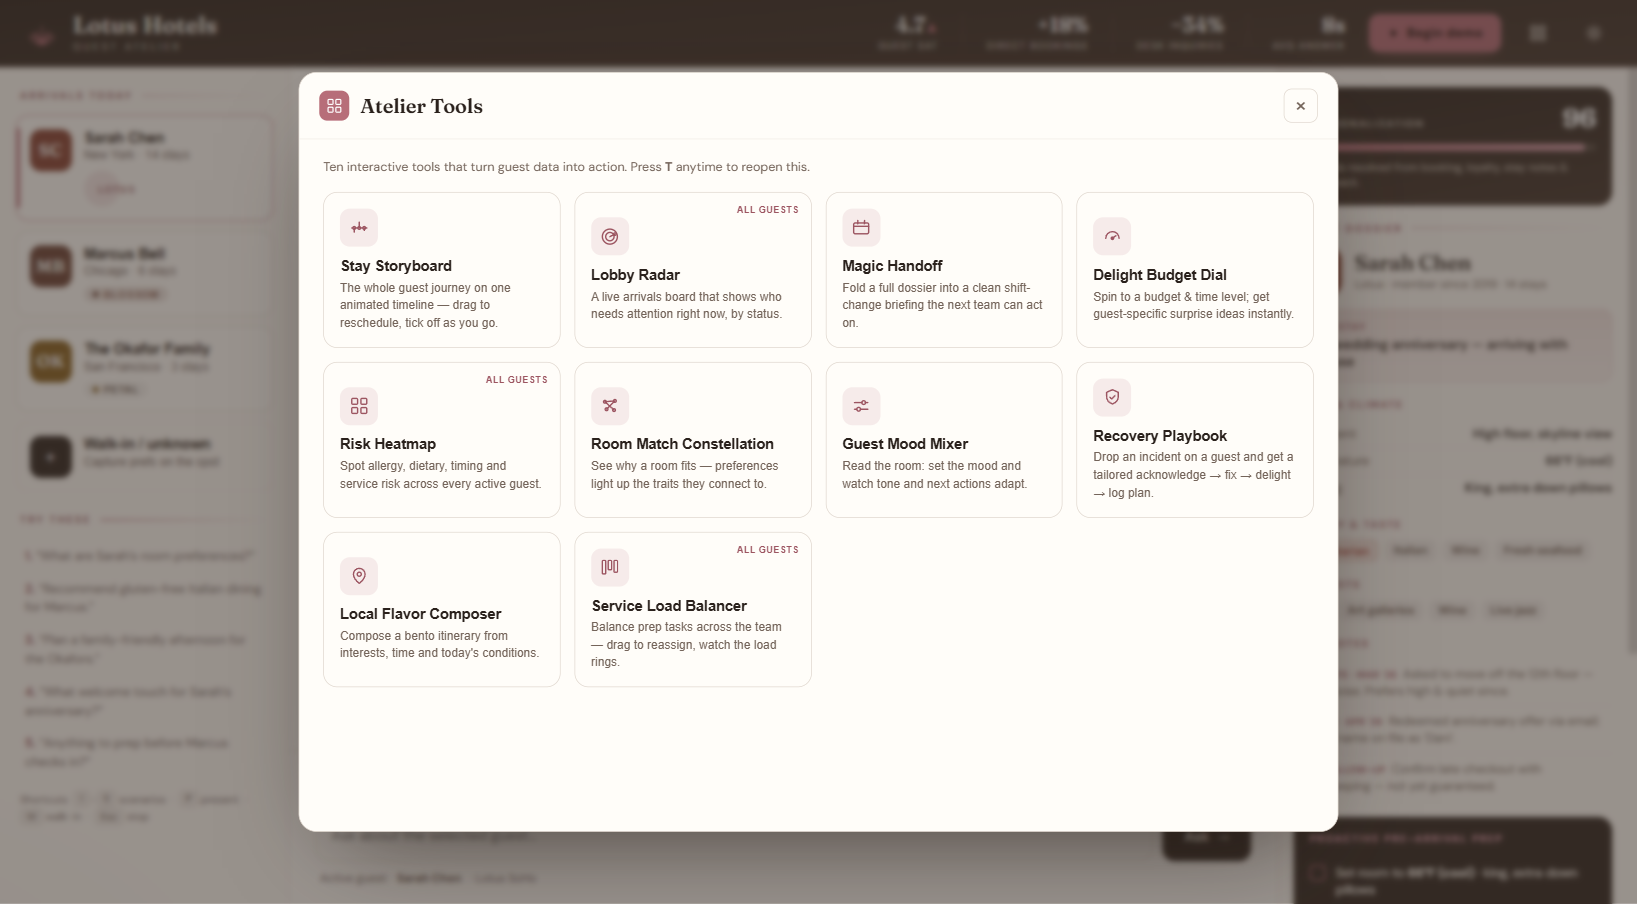
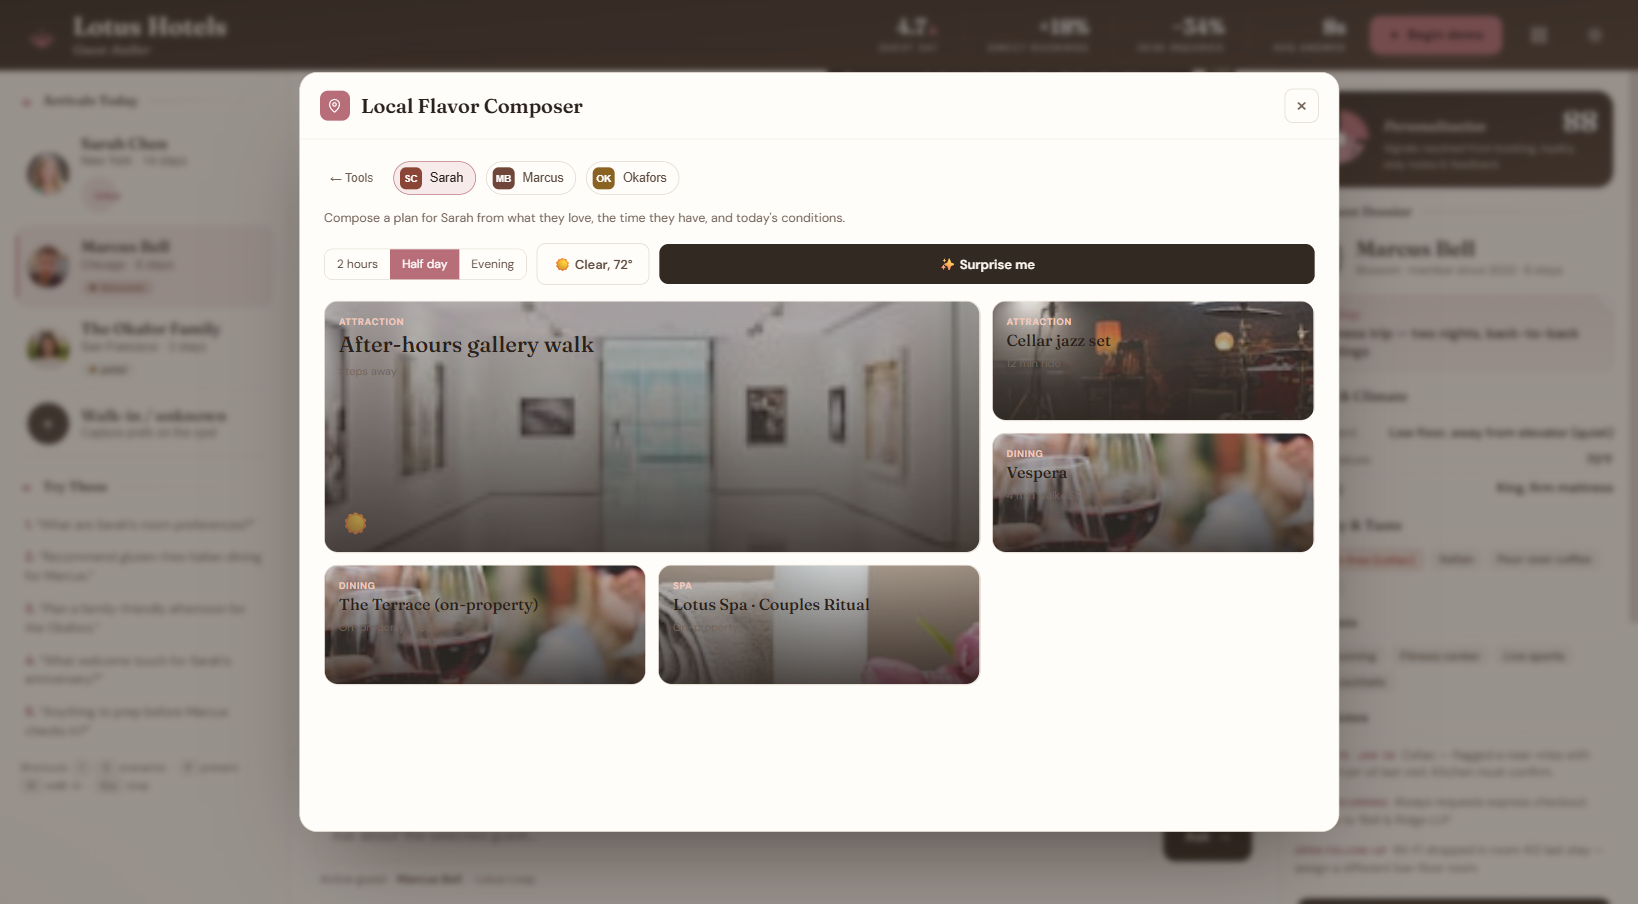
Add real photography: guest portraits + food/venue thumbnails
- Guest portraits (roster + dossier) from randomuser.me
- Real Unsplash photo thumbnails on every dining/activity recommendation
- Photo-backed cards in the Local Flavor Composer bento
- Graceful onerror fallback to inline SVG illustrations (stays reliable offline)
- Verified: 5 scenarios, dietary guardrails, all 10 tools, 0 broken images, 0 console errors

diff --git a/index.html b/index.html
@@ -106,8 +106,10 @@
   .gcard:hover{background:var(--brass-soft)}
   .gcard.active{background:var(--brass-soft)}
   .gcard.active::before{content:"";position:absolute;left:0;top:10px;bottom:10px;width:2px;background:var(--brass)}
-  .avatar{width:42px;height:42px;border-radius:50%;flex:0 0 auto;display:flex;align-items:center;justify-content:center;
+  .avatar{width:42px;height:42px;border-radius:50%;flex:0 0 auto;display:flex;align-items:center;justify-content:center;overflow:hidden;
     font-family:var(--serif);font-size:16px;font-weight:600;color:#fff;letter-spacing:.3px;box-shadow:inset 0 0 0 1px rgba(255,255,255,.18)}
+  .avatar.portrait svg{width:100%;height:100%;display:block}
+  .avatar.portrait img{width:100%;height:100%;object-fit:cover;display:block}
   .gcard .nm{font-family:var(--serif);font-weight:600;font-size:15.5px;line-height:1.1;color:var(--heading)}
   .gcard .meta{font-size:12px;color:var(--muted);margin-top:3px}
   .tier{display:inline-flex;align-items:center;gap:5px;font-size:10px;letter-spacing:.4px;
@@ -164,6 +166,12 @@
 
   .recs{display:grid;gap:9px;margin-top:12px}
   .rec{border:1px solid var(--line-2);border-left:2px solid var(--brass);border-radius:9px;padding:11px 13px;background:var(--paper)}
+  .rec.hasthumb{display:flex;gap:12px;align-items:center}
+  .rcol{flex:1;min-width:0}
+  .rthumb{width:48px;height:48px;flex:0 0 auto;border-radius:10px;overflow:hidden;background:radial-gradient(circle at 50% 38%,var(--card),var(--brass-soft));
+    display:flex;align-items:center;justify-content:center;color:var(--brass-2);box-shadow:inset 0 0 0 1px var(--line-2)}
+  .rthumb svg{width:26px;height:26px;fill:none;stroke:currentColor;stroke-width:1.5;stroke-linecap:round;stroke-linejoin:round}
+  .rthumb img{width:100%;height:100%;object-fit:cover;display:block}
   .rec .rt{font-weight:650;font-size:13.5px;color:var(--heading);display:flex;justify-content:space-between;gap:10px;align-items:baseline}
   .rec .rt .pill{font-size:10px;letter-spacing:.3px;color:var(--muted);font-weight:600;white-space:nowrap}
   .rec .rt .val{color:var(--brass-2);font-weight:700}
@@ -464,7 +472,13 @@
   .bento{display:grid;grid-template-columns:repeat(3,1fr);grid-auto-rows:120px;gap:12px}
   .bento .bt{border:1px solid var(--line);border-radius:14px;padding:14px;background:var(--card);overflow:hidden;position:relative;animation:rise .4s both}
   .bento .bt.big{grid-column:span 2;grid-row:span 2}
-  .bento .bt .cat{font-size:9.5px;letter-spacing:.6px;text-transform:uppercase;color:var(--brass-2);font-weight:700}
+  .bento .bt-photo{position:absolute;inset:0;background-size:cover;background-position:center;opacity:.9}
+  .bento .bt-photo::after{content:"";position:absolute;inset:0;background:linear-gradient(180deg,rgba(20,12,8,.15),rgba(20,12,8,.82))}
+  .bento .bt .cat,.bento .bt .nm,.bento .bt .mt,.bento .bt .wx{position:relative;z-index:1}
+  .bento .bt .cat{font-size:9.5px;letter-spacing:.6px;text-transform:uppercase;color:#f0c9be;font-weight:700}
+  .bento .bt .nm{color:#fff}
+  .bento .bt .mt{color:rgba(255,255,255,.82)}
+  .bento .bt.big .wx{bottom:14px;right:auto;left:16px}
   .bento .bt .nm{font-family:var(--serif);font-size:16px;color:var(--heading);margin-top:4px;line-height:1.2}
   .bento .bt.big .nm{font-size:22px}
   .bento .bt .mt{font-size:11px;color:var(--muted);margin-top:6px}
@@ -560,6 +574,7 @@
 const GUESTS = [
   {
     id:"sarah", name:"Sarah Chen", initials:"SC", tier:"lotus", color:"#8a4536", score:96,
+    photo:"https://randomuser.me/api/portraits/women/65.jpg",
     matchKeys:["sarah","chen"],
     property:{name:"Lotus SoHo", city:"New York"}, memberSince:2019, visits:14,
     occasion:"5th wedding anniversary &mdash; arriving with spouse", occasionKey:"anniversary",
@@ -576,6 +591,7 @@ const GUESTS = [
   },
   {
     id:"marcus", name:"Marcus Bell", initials:"MB", tier:"blossom", color:"#6f4639", score:88,
+    photo:"https://randomuser.me/api/portraits/men/32.jpg",
     matchKeys:["marcus","bell"],
     property:{name:"Lotus Loop", city:"Chicago"}, memberSince:2022, visits:6,
     occasion:"Business trip &mdash; two nights, back-to-back meetings", occasionKey:"business",
@@ -592,6 +608,7 @@ const GUESTS = [
   },
   {
     id:"okafor", name:"The Okafor Family", initials:"OK", tier:"petal", color:"#8a6323", score:84,
+    photo:"https://randomuser.me/api/portraits/women/90.jpg",
     matchKeys:["okafor","okafors","amara","david"],
     property:{name:"Lotus Embarcadero", city:"San Francisco"}, memberSince:2023, visits:3,
     occasion:"Summer family vacation &mdash; Amara &amp; David + kids (4 &amp; 7)", occasionKey:"family",
@@ -674,10 +691,68 @@ function pick(g,cats,intentTags,n){
   return CATALOG.filter(i=>i.city===g.property.city && cats.includes(i.cat) && dietaryOk(i,g))
     .map(i=>({i,s:scoreItem(i,g,intentTags)})).sort((a,b)=>b.s-a.s).slice(0,n).map(x=>x.i);
 }
+/* ---- inline SVG imagery (offline, theme-aware) ---- */
+const PARTY={
+  solo:'<path d="M7 37c0-8 5.5-12 13-12s13 4 13 12z"/><circle cx="20" cy="15" r="6.8"/>',
+  couple:'<path d="M3 37c0-7 5-11 16.5-11S36 30 36 37z"/><circle cx="14" cy="15" r="6"/><circle cx="26" cy="15" r="6"/>',
+  family:'<path d="M2 37c0-8 6-12 18-12s18 4 18 12z"/><circle cx="13" cy="13" r="5"/><circle cx="27" cy="13" r="5"/><circle cx="15" cy="31" r="3.6"/><circle cx="25" cy="31" r="3.6"/>'
+};
+function partyKey(g){ if(g.id==="walkin") return "solo"; return {anniversary:"couple",family:"family",business:"solo",leisure:"solo"}[g.occasionKey]||"solo"; }
+function portraitSVG(g){ return `<svg viewBox="0 0 40 40" fill="#fff" aria-hidden="true">${PARTY[partyKey(g)]}</svg>`; }
+function avatar(g){
+  if(g.id==="walkin" && !g.built) return `<div class="avatar" style="background:${g.color}">+</div>`;
+  const fb=portraitSVG(g).replace(/"/g,"&quot;");
+  if(g.photo) return `<div class="avatar portrait" style="background:${g.color}"><img src="${g.photo}" alt="${stripTags(g.name)}" loading="lazy" onerror="this.parentNode.innerHTML='${fb}'"></div>`;
+  return `<div class="avatar portrait" style="background:${g.color}">${portraitSVG(g)}</div>`;
+}
+
+const DISH={
+  dine:'<path d="M7 3v6a2.4 2.4 0 002.4 2.4M9.4 3v5.4M7 3v5.4"/><path d="M9.4 11.4V21"/><path d="M16.5 3c-1.4 1.1-2 3-2 5.2 0 1.9.7 3 2 3.6V21"/>',
+  cup:'<path d="M5 9h11v3.5A5.5 5.5 0 0110.5 18H10A5 5 0 015 13z"/><path d="M16 10h1.8a2.2 2.2 0 010 4.4H16"/><path d="M8 3.5v2M11.2 3.5v2"/>',
+  wine:'<path d="M8.5 3.5h7l-.9 5.6a2.6 2.6 0 01-5.2 0z"/><path d="M12 13v5.5M9 20.5h6"/>',
+  fish:'<path d="M3.5 12c3.2-4.4 8.6-4.4 11.8 0-3.2 4.4-8.6 4.4-11.8 0z"/><path d="M15.3 12l4.7-3.2v6.4z"/><circle cx="7.6" cy="10.9" r=".9" fill="currentColor" stroke="none"/>',
+  spa:'<path d="M12 20V9"/><path d="M12 20c-3-1.6-4.6-4.4-5.2-8.2 2.5 1 4.2 3.6 5.2 8.2z"/><path d="M12 20c3-1.6 4.6-4.4 5.2-8.2-2.5 1-4.2 3.6-5.2 8.2z"/><path d="M12 20c-4-.8-6.7-2.7-8.3-5.8 3.1-.3 6.2 1.4 8.3 5.8z"/><path d="M12 20c4-.8 6.7-2.7 8.3-5.8-3.1-.3-6.2 1.4-8.3 5.8z"/>',
+  pulse:'<path d="M3 12h4l2.2-5.5 3.4 11 2.2-5.5H21"/>',
+  waves:'<path d="M3 9c2-2 4-2 6 0s4 2 6 0 4-2 6 0M3 15c2-2 4-2 6 0s4 2 6 0 4-2 6 0"/>',
+  frame:'<rect x="4" y="4.5" width="16" height="15" rx="1.2"/><path d="M7 15.5l3.2-3.4 2.2 2.2 3-3.8 2.6 5"/><circle cx="9" cy="9" r="1.2"/>',
+  note:'<path d="M9 18.5V6l9-2v10.5"/><circle cx="6.8" cy="18.5" r="2.2"/><circle cx="15.8" cy="16.5" r="2.2"/>',
+  pin:'<path d="M12 21s7-6 7-11a7 7 0 00-14 0c0 5 7 11 7 11z"/><circle cx="12" cy="10" r="2.6"/>'
+};
+function dishKey(i){ const t=(i.tags||[]).join(" ");
+  if(i.cat==="dining"){ if(/coffee/.test(t))return "cup"; if(/wine|romantic/.test(t))return "wine"; if(/seafood|pescatarian/.test(t))return "fish"; return "dine"; }
+  if(i.cat==="spa")return "spa"; if(i.cat==="fitness")return "pulse";
+  if(/aquarium/.test(t))return "fish"; if(/pool/.test(t))return "waves"; if(/art|gallery/.test(t))return "frame"; if(/jazz|nightlife/.test(t))return "note";
+  return "pin"; }
+function dishSVG(i){ return `<svg viewBox="0 0 24 24" aria-hidden="true">${DISH[dishKey(i)]}</svg>`; }
+const PHOTO={
+  dine:"https://images.unsplash.com/photo-1551183053-bf91a1d81141?w=160&h=160&fit=crop",
+  cup:"https://images.unsplash.com/photo-1509042239860-f550ce710b93?w=160&h=160&fit=crop",
+  wine:"https://images.unsplash.com/photo-1510812431401-41d2bd2722f3?w=160&h=160&fit=crop",
+  fish:"https://images.unsplash.com/photo-1579584425555-c3ce17fd4351?w=160&h=160&fit=crop",
+  steak:"https://images.unsplash.com/photo-1600891964092-4316c288032e?w=160&h=160&fit=crop",
+  spa:"https://images.unsplash.com/photo-1540555700478-4be289fbecef?w=160&h=160&fit=crop",
+  pulse:"https://images.unsplash.com/photo-1534438327276-14e5300c3a48?w=160&h=160&fit=crop",
+  waves:"https://images.unsplash.com/photo-1571896349842-33c89424de2d?w=160&h=160&fit=crop",
+  frame:"https://images.unsplash.com/photo-1518998053901-5348d3961a04?w=160&h=160&fit=crop",
+  note:"https://images.unsplash.com/photo-1514320291840-2e0a9bf2a9ae?w=160&h=160&fit=crop",
+  pin:"https://images.unsplash.com/photo-1566073771259-6a8506099945?w=160&h=160&fit=crop"
+};
+function photoKey(i){ const t=(i.tags||[]).join(" ");
+  if(i.cat==="dining"){ if(/coffee/.test(t))return "cup"; if(/steak/.test(t))return "steak"; if(/wine|romantic/.test(t))return "wine"; if(/seafood|pescatarian/.test(t))return "fish"; return "dine"; }
+  if(i.cat==="spa")return "spa"; if(i.cat==="fitness")return "pulse";
+  if(/aquarium/.test(t))return "fish"; if(/pool/.test(t))return "waves"; if(/art|gallery/.test(t))return "frame"; if(/jazz|nightlife/.test(t))return "note";
+  return "pin"; }
+function thumbHTML(i){
+  const fb=dishSVG(i).replace(/"/g,"&quot;");
+  const url=PHOTO[photoKey(i)];
+  return `<div class="rthumb">${url?`<img src="${url}" alt="" loading="lazy" onerror="this.parentNode.innerHTML='${fb}'">`:dishSVG(i)}</div>`;
+}
 function recCard(i,val){
-  const tags=i.tags.filter(t=>t!=="onprop").slice(0,4).map(t=>`<span class="rtag">${t.replace(/-/g," ")}</span>`).join("");
-  const v=val?`<span class="val">${val}</span>`:`<span class="pill">${i.meta}</span>`;
-  return `<div class="rec"><div class="rt"><span>${i.name}</span>${v}</div><div class="rb">${i.blurb}</div><div class="tags">${tags}</div></div>`;
+  const tags=(i.tags||[]).filter(t=>t!=="onprop").slice(0,4).map(t=>`<span class="rtag">${t.replace(/-/g," ")}</span>`).join("");
+  const v=val?`<span class="val">${val}</span>`:(i.meta?`<span class="pill">${i.meta}</span>`:"");
+  const inner=`<div class="rt"><span>${i.name}</span>${v}</div>${i.blurb?`<div class="rb">${i.blurb}</div>`:""}${tags?`<div class="tags">${tags}</div>`:""}`;
+  const thumb=i.cat?thumbHTML(i):"";
+  return `<div class="rec${thumb?" hasthumb":""}">${thumb}<div class="rcol">${inner}</div></div>`;
 }
 function signalsBlock(list){
   return `<div class="signals"><div class="sk">Signals used</div><div class="chips">${list.map(s=>`<span class="sig">${s}</span>`).join("")}</div></div>`;
@@ -769,7 +844,6 @@ function impactRow(list){ return `<div class="impact"><span class="ik">Impact</s
 
 /* ============================ LLM (optional) ============================ */
 /* ============================ RENDER ============================ */
-function avatar(g){ return `<div class="avatar" style="background:${g.color}">${g.initials}</div>`; }
 function escapeHTML(s){ return String(s).replace(/[&<>"']/g,c=>({"&":"&amp;","<":"&lt;",">":"&gt;",'"':"&quot;","'":"&#39;"}[c])); }
 function addUser(text){
   const el=document.createElement("div"); el.className="msg user";
@@ -1312,7 +1386,7 @@ function renderFlavor(g,root){
     items=items.filter((v,i,a)=>a.findIndex(x=>x.name===v.name)===i);
     if(wx===2) items=items.filter(i=>!/walk|stroll|run|pool|trail/i.test(i.name+i.blurb)).concat(items); // rain: prefer indoor first
     items=items.slice(0, span==="short"?3:span==="eve"?4:6);
-    $("#bento").innerHTML=items.map((i,idx)=>`<div class="bt${idx===0?' big':''}" style="animation-delay:${idx*.05}s"><div class="cat">${i.cat}</div><div class="nm">${i.name}</div><div class="mt">${i.meta}</div>${idx===0?`<div class="wx">${WX[wx][0]}</div>`:""}</div>`).join("");
+    $("#bento").innerHTML=items.map((i,idx)=>`<div class="bt${idx===0?' big':''}" style="animation-delay:${idx*.05}s"><div class="bt-photo" style="background-image:url('${PHOTO[photoKey(i)]}')"></div><div class="cat">${i.cat}</div><div class="nm">${i.name}</div><div class="mt">${i.meta}</div>${idx===0?`<div class="wx">${WX[wx][0]}</div>`:""}</div>`).join("");
   };
   root.innerHTML=`<p class="tsub">Compose a plan for ${firstName(g)} from what they love, the time they have, and today's conditions.</p>
     <div class="lf-top"><div class="lf-seg" id="lfSpan"><button data-s="short">2 hours</button><button data-s="half" class="on">Half day</button><button data-s="eve">Evening</button></div>

diff --git a/README.md b/README.md
@@ -15,6 +15,7 @@ An AI-powered **Guest Personalization Assistant** for a boutique hotel chain —
 - **Natural-language concierge** — staff ask in plain English; the engine resolves intent and returns tailored recommendations, with **contextual follow-up suggestions** after every answer.
 - **Explainable by design** — every answer shows the **"Signals used"** (the exact profile cues behind it) plus a business **Impact** callout.
 - **Dietary safety guardrails** — celiac/nut-allergy guests can *never* be shown an unsafe venue (hard filter + visible "Risk-Siren").
+- **Real imagery** — guest portraits and photo thumbnails on every dining/activity recommendation (and photo-backed cards in the Local Flavor tool). Images load from the web with a graceful **fallback to inline SVG illustrations** if offline, so the demo never breaks.
 - **"The Living Folio" art direction** — an editorial, ink‑and‑paper concierge identity: Fraunces ledger headings, a hand‑drawn hero, de‑boxed specimen rows, a signature **Lotus Dial** that inks in its petals as the personalization score rises, and a subtle paper grain. Deliberately not a generic SaaS dashboard.
 - **Light & dark themes** — a warm rose-pink design system with a one-click theme toggle that respects your OS preference.
 - **10 interactive "Atelier Tools"** — a launcher (press **T**) of visual, hands-on tools that turn guest data into action (storyboard, radar, dial, heatmap, constellation, and more).
